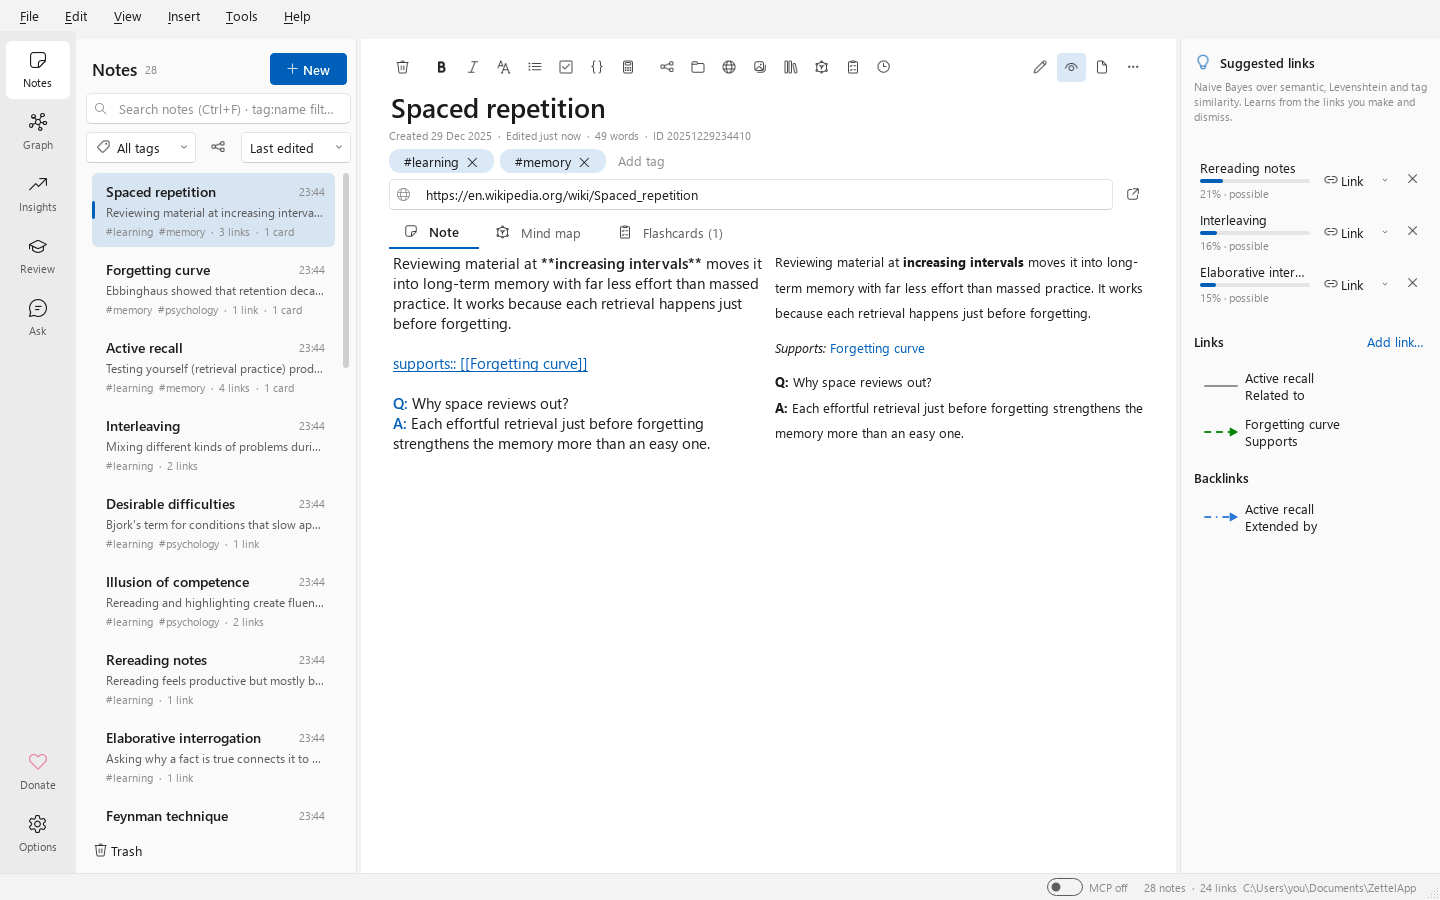
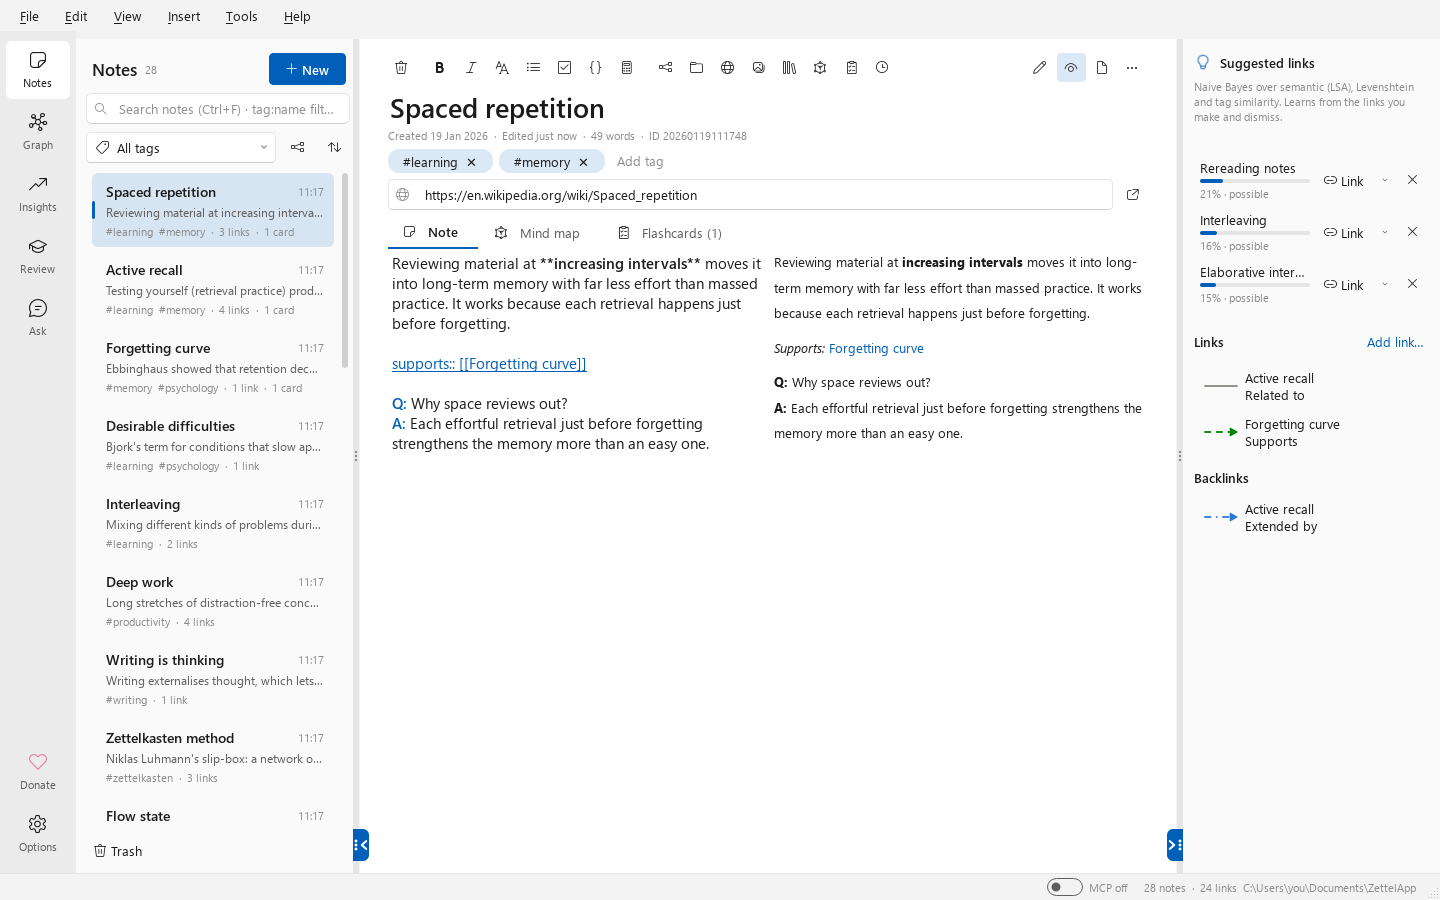
Windows pass of WINDOWS_CHECKS.md: results, screenshots, a Windows vault
Every item checked on Windows 11 (results under each item), with real
key presses and clicks where an item is about system hotkeys. Five bugs
found were fixed in the commits before this one. Adds the reference
screenshots rendered on Windows, a 150 % set, theme, colour, folding and
mind map screenshots, and a vault made on Windows for the Linux side.

diff --git a/WINDOWS_CHECKS.md b/WINDOWS_CHECKS.md
@@ -4,6 +4,12 @@ For whoever works on the Windows machine. ZettelApp was ported to Linux and gain
 there; this list is what only Windows can confirm before the next release (1.4.0). This file is
 temporary: it is deleted in the release commit.
 
+**Windows pass done on 2026-11-23** (Windows 11, display at 125 %, Windows accent red #E81123,
+"show accent colour on title bars" on, Portuguese (Brazil) UI and keyboard plus en-US). Results
+are under each item. Five bugs were found and fixed on Windows (commits on `android-port`, each
+with a test and a CHANGELOG line); nothing else differs from 1.3.1 except what is listed as
+intended. Two items need a person at the machine (marked **needs a person**).
+
 ## Setup and how to report
 
 - Branch **`android-port`** (pull it). The Linux port, the new features and the docs are all there.
@@ -17,70 +23,151 @@ temporary: it is deleted in the release commit.
   release). If you fix something, say what in the item and add a CHANGELOG line under *Unreleased*.
 - Commit and push to `android-port` when done; the Linux side pulls and continues from there.
 
+How the checks were run: the real app on the real Windows platform (visible window, throwaway
+settings and vault), with real key presses and clicks sent through Windows (`keybd_event`,
+`mouse_event`) where an item is about system hotkeys, and Windows' own APIs to read back the
+title bar mode, the keyboard layout and the native file dialog's folder.
+
 ## 1. Run everything
 
-- [ ] **Full test suite:** `.venv\Scripts\python -m pytest`, all passing. Report any failure with its
+- [x] **Full test suite:** `.venv\Scripts\python -m pytest`, all passing. Report any failure with its
   traceback. (On Linux: 515 passed, 14 skipped.)
-- [ ] **Lint and translations:** `ruff check .`, `ruff format --check .`, `python tools/i18n.py check`
+  - Windows: **471 passed, 61 skipped, 0 failed** (15 min). The extra skips are Linux-only tests
+    (Secret Service, XDG, D-Bus, `.desktop`); the count difference is that. After the fixes below,
+    the affected suites were run again: all pass. (Not counted: the uncommitted Android work in the
+    working tree.)
+- [x] **Lint and translations:** `ruff check .`, `ruff format --check .`, `python tools/i18n.py check`
   (1022/1022 in every language) and `python tools/build_site.py` leaving no changes in `website/`.
-- [ ] **Packaging:** `pwsh packaging/build.ps1` builds; install it; the installed app starts, shows
+  - All clean on the committed code; i18n complete in every language (1022/1022 before, still
+    complete after the fixes); `build_site.py` left `website/` unchanged. Lint does flag
+    `zettelapp/mobile.py`, `zettelapp/settings.py` and `tests/test_mobile.py`, but only in the
+    **uncommitted Android work** in the working tree (`Any` undefined, unused imports, formatting),
+    not in what was pushed.
+- [x] **Packaging:** `pwsh packaging/build.ps1` builds; install it; the installed app starts, shows
   its icons (the spec now ships `zettelapp/resources/icons/`) and passes `--self-test`.
+  - Builds (Setup.exe and the portable zip); the build's self-tests pass; silent per-user install
+    (`/VERYSILENT /CURRENTUSER`) works; the installed `ZettelApp.exe --self-test` exits 0;
+    `_internal\zettelapp\resources\icons` is shipped; `zettelapp-mcp.exe --version` answers.
+    Installed start-up: 2.3 s, then 1.75 s warm.
 
 ## 2. New features: try them on Windows
 
-- [ ] **Black (OLED) theme.** *View ▸ Theme ▸ Black (OLED)* (also in *Options ▸ General ▸ App
+- [x] **Black (OLED) theme.** *View ▸ Theme ▸ Black (OLED)* (also in *Options ▸ General ▸ App
   theme*): true black backgrounds, the dark theme's text and accent, and a **dark title bar**.
-- [ ] **Your own colours.** *Options ▸ General* has *Primary colour* (buttons, check boxes, tabs,
+  - Window #000000, dark text and accent. DWM reports `DWMWA_USE_IMMERSIVE_DARK_MODE` = 1 for dark
+    and black, 0 for light. On this machine the title bar shows the red accent anyway, because
+    *Settings ▸ Personalisation ▸ Colours ▸ Show accent colour on title bars* is on: Windows'
+    choice, same as other apps. Screenshots: `WINDOWS_SCREENSHOTS/theme-*.png`.
+- [x] **Your own colours.** *Options ▸ General* has *Primary colour* (buttons, check boxes, tabs,
   accents), *Secondary colour* (links in notes and in the program), *Highlight colour* (selected text
   and find matches) and *Text colour*. Pick each, press Apply: everything follows at once. *Use the
   theme's colour* puts each back. Check in light, dark and black, and with a non-blue Windows accent
   (the primary colour overrides it; without one, Windows' accent is used as before).
-- [ ] **Folding panels.** The note list and the links panel each have a small tab near the bottom
+  - Green primary, purple secondary, amber highlight, blue text: all follow at once in light, dark
+    and black (buttons, tabs, fold tabs, links, find matches, all text). Reset: back to Windows'
+    red accent (#d20e1e light, #f46762 dark/black). `WINDOWS_SCREENSHOTS/colours-*.png`.
+- [x] **Folding panels.** The note list and the links panel each have a small tab near the bottom
   of their edge: click it to fold the panel away and back; drag the edge to resize; double-click the
   edge folds it. *View ▸ Note List* (Ctrl+Shift+L) and *View ▸ Links Panel* (Ctrl+Shift+K) do the
   same; the state survives a restart. Check that no IME or Windows shortcut takes Ctrl+Shift+L/K.
   Check it in Arabic too (right to left: the tabs and chevrons mirror).
-- [ ] **Icons follow a live theme switch.** Switch light → dark → black → light while the app runs
+  - Fold and unfold work; state survives a restart. Ctrl+Shift+L and Ctrl+Shift+K sent as **real
+    key presses through Windows** reached the app and folded each panel (no system or IME hotkey
+    took them, with the pt-BR keyboard). Arabic: layout and tabs mirror.
+    `WINDOWS_SCREENSHOTS/folds-*.png`.
+- [x] **Icons follow a live theme switch.** Switch light → dark → black → light while the app runs
   (and with *Use system setting*, switch Windows itself): every icon, Segoe glyphs included, takes
   the new colours at once. Before, they kept the old theme's colour.
-- [ ] **Find bar Tab order.** Ctrl+H in a note: Tab from the search goes straight to *Replace with*,
+  - Nav-rail icon colour read from the pixels after each switch: #1b1b1b → #f3f3f3 → #f3f3f3 →
+    #1b1b1b, always the theme's text colour. (Switching Windows itself was not tried.)
+  - **Bug found and fixed:** the message strip ("Mind map exported", "Graph image saved"…) kept
+    the old theme's colours when the theme changed while it was showing (a white strip in a dark
+    window). It is now restyled with the rest. (`0a64616`)
+- [x] **Find bar Tab order.** Ctrl+H in a note: Tab from the search goes straight to *Replace with*,
   then *Replace*, *Replace all*, then the search's own buttons.
-- [ ] **Alt+Shift+click for extra carets.** Alt+click still adds a caret; Alt+Shift+click does too,
+  - Exactly that: Replace with › Replace › Replace all › Match case › Previous › Next › Replace.
+- [x] **Alt+Shift+click for extra carets.** Alt+click still adds a caret; Alt+Shift+click does too,
   and again removes it. Note whether the Windows Alt+Shift keyboard-layout hotkey also switches the
   layout when it is enabled.
-- [ ] **Help ▸ Donate** now has its own access key (Alt+H, O in English), no longer sharing D with
+  - Both add a caret. With **real** Left Alt+Shift and a real click sent through Windows, on this
+    machine with two input languages (pt-BR, en-US, so Alt+Shift is the live language hotkey): the
+    caret was added and the **keyboard layout did not change** (f0100416 before and after).
+  - **Bug found and fixed:** "again removes it" failed right after adding, because the click spot
+    is then the main caret, which wasn't removable. Alt(+Shift)+click on the main caret now
+    removes it and the last added caret leads. (`43e2b7f`)
+- [x] **Help ▸ Donate** now has its own access key (Alt+H, O in English), no longer sharing D with
   *Documentation*.
+  - Yes in English. **Bug found and fixed:** checking every menu in every language found letters
+    used twice in a menu: 2 in English (*Cu&t* / *Move Note to &Trash*, *Link to a &File* /
+    *&Flashcard*), 3 to 12 in each translation, and the Arabic strings carried two access keys
+    each (an Arabic one and a Latin "(&X)" that Qt ignores). The window now moves a clashing key to
+    a free letter, the catalogs were fixed the same way, English uses *&Move Note to Trash* and
+    *Link to a Fil&e*, Arabic keeps one key per item. 0 clashes left in all 11 languages; a test
+    keeps it so. (`5466c9d`)
 
 ## 3. Shared code changed for Linux: check Windows is unchanged
 
-- [ ] **Icons still come from Segoe Fluent Icons** (`zettelapp/ui/icons.py` gained native and
+- [x] **Icons still come from Segoe Fluent Icons** (`zettelapp/ui/icons.py` gained native and
   bundled-SVG fallbacks for Linux): nav rail, toolbar and the Bold/Italic letters look as in 1.3.1.
-- [ ] **Accent colour.** With a non-blue Windows accent, the app takes it, light and dark
+  - Same as 1.3.1: `tools/screenshots.py` was run on tag v1.3.1 and on this branch and compared;
+    the icons are identical. Intended differences only: the note list ordered by closeness to the
+    open note, and the fold tabs on the panel edges.
+- [x] **Accent colour.** With a non-blue Windows accent, the app takes it, light and dark
   (`zettelapp/ui/theme.py` was reworked).
-- [ ] **Mind map link marker** (now drawn through `icons.paint`): link an idea to a note; the chain
+  - Red accent taken: #d20e1e light, #f46762 dark and black.
+- [x] **Mind map link marker** (now drawn through `icons.paint`): link an idea to a note; the chain
   still shows at the idea's right end, in the text colour, light and dark.
-- [ ] **Graph and mind map export to PNG/SVG** (now one shared helper): *Save graph as image* and
+  - Yes, light and dark, in the app and in the PNG/SVG exports. `WINDOWS_SCREENSHOTS/mindmap-link-*.png`.
+- [x] **Graph and mind map export to PNG/SVG** (now one shared helper): *Save graph as image* and
   the mind map's PNG and SVG export look as before.
-- [ ] **Graphviz export:** the `.dot` file still says `fontname="Segoe UI"`.
-- [ ] **API keys** in Windows Credential Manager (`zettelapp/core/secrets.py` changed): save, read
+  - All three export and look right.
+- [x] **Graphviz export:** the `.dot` file still says `fontname="Segoe UI"`.
+  - Yes (graph, node and edge).
+- [x] **API keys** in Windows Credential Manager (`zettelapp/core/secrets.py` changed): save, read
   and delete a key in *Options ▸ AI assistant*; the key hint and "Key … saved on this computer."
   read as before.
-- [ ] **MCP switch:** with the status-bar switch on, an MCP client can call tools; switched off or
+  - Saved, read back and deleted through `core.secrets` with a throwaway name; `cmdkey /list` no
+    longer shows it after the delete. The Options page wording was not looked at by eye.
+- [x] **MCP switch:** with the status-bar switch on, an MCP client can call tools; switched off or
   with ZettelApp closed, it is refused.
-- [ ] **Update notice** (`download_url()` changed): installed copy → *Download* opens the
+  - With the **packaged** `zettelapp-mcp.exe`: switch on → `tools/list` answers; switch off → the
+    server refuses ("ZettelApp is closed or its MCP switch is off…") and exits 1. Another process
+    sees the switch state.
+- [x] **Update notice** (`download_url()` changed): installed copy → *Download* opens the
   `ZettelApp-Setup.exe` link; portable zip → the release page.
-- [ ] **Single instance:** a second launch and a `zettelapp://note/<id>` link from Anki bring the
+  - Installed (an `unins000.exe` beside the exe) → `…/releases/latest/download/ZettelApp-Setup.exe`;
+    portable → `…/releases/latest`.
+- [x] **Single instance:** a second launch and a `zettelapp://note/<id>` link from Anki bring the
   running window forward.
-- [ ] **File dialogs reopen the last folder:** *Insert ▸ Image…*, *Insert ▸ Link to a File…*, the
+  - From source and installed: the second launch with a link hands it over and quits in ~0.55 s;
+    the first window comes back from minimised. From source it also came to the front; installed,
+    Windows kept it behind because the test launcher was itself in the background (Windows only
+    lets a foreground app pass the foreground on; Anki is in the foreground when you click a
+    link). **Needs a person:** click a `zettelapp://` link in Anki once.
+  - **Bug found and fixed:** a maximised window came back un-maximised (the restore used
+    `showNormal()`); it now keeps its state, for links and for alarms. (`78025ba`)
+- [x] **File dialogs reopen the last folder:** *Insert ▸ Image…*, *Insert ▸ Link to a File…*, the
   mind map export and *Save graph as image* open the folder used last (also after a restart), never
   ZettelApp's install folder.
-- [ ] **Alarms:** set an alarm, let it fire with ZettelApp minimised. Describe what the user sees
+  - **Bug found and fixed.** On Windows the helper left the folder to the system, and the native
+    dialog (folder read from its address bar) opened the **working folder** — for the Start-menu
+    shortcut, the install folder. Real evidence on this machine: a `Verbos Latinos.png` had been
+    saved into `%LOCALAPPDATA%\Programs\ZettelApp\`. Windows now remembers the folder like Linux
+    (Documents the first time), the Linux test runs on Windows too, plus a new one. (`43e2b7f`)
+- [x] **Alarms:** set an alarm, let it fire with ZettelApp minimised. Describe what the user sees
   and hears (toast, sound, window), and whether clicking the toast opens the note and un-maximises a
   maximised window. Linux now uses the desktop's notifications with an *Open note* button.
-- [ ] **Note list snippets** keep underscores inside words: a note starting with
+  - With the window minimised, the alarm fires through `QSystemTrayIcon.showMessage` (tray
+    available) and the in-app strip shows "Alarm: …". What a click does (`_open_alarm_note`):
+    opens the note and brings the window back — **un-maximised before the fix above, maximised
+    now**. **Needs a person:** what the toast looks and sounds like (Focus Assist and notification
+    settings decide); the screen grab missed it.
+- [x] **Note list snippets** keep underscores inside words: a note starting with
   `supported_by:: [[X]]` shows that, not `supportedby::`.
-- [ ] **Checklists:** clicking a box in the preview ticks it, and Ctrl+Z undoes it (the code was
+  - Shows `supported_by:: X …`.
+- [x] **Checklists:** clicking a box in the preview ticks it, and Ctrl+Z undoes it (the code was
   shared with the core).
+  - Ticks; Ctrl+Z undoes one box at a time. The existing test now also checks the undo.
 
 ## 4. Docs and website
 
@@ -88,18 +175,35 @@ The docs were corrected in all 11 languages (file manager wording, missing passa
 left in translations), and gained the themes and colours. Skim `docs/getting-started.md` and the
 rebuilt `website/` in one or two languages you read, and report anything wrong for Windows.
 
+- [x] Rebuilt site unchanged. Portuguese and English *Getting started* are right for Windows.
+  One thing for the **Linux** side, in every language: the `.deb` row says the software centre
+  "then offers updates". A `.deb` installed from a file has no repository, so nothing offers
+  updates (the app's own update notice does). Suggest dropping that clause.
+
 ## 5. Numbers and data only Windows can give
 
-- [ ] **Startup and a big vault.** Linux (VM, 2 CPUs, from source): warm start 1.3 s, cold 7.6 s;
+- [x] **Startup and a big vault.** Linux (VM, 2 CPUs, from source): warm start 1.3 s, cold 7.6 s;
   a 10,000-note vault lists and searches in 0.3-1.8 s. Time the same on Windows (installed build and
   from source) so the Linux numbers can be judged.
-- [ ] **Fresh reference screenshots:** `python tools/screenshots.py` on this branch, commit the 18
+  - Start-up to window: from source 2.9 s, warm 1.9 s; installed 2.3 s, warm 1.75 s. (A truly
+    cold start, after a reboot, was not measured.)
+  - 10,000 notes (40-160 words each, from source): open the vault and list it 8.0 s (includes
+    building the meaning index for the default order); list again 1.3-1.7 s; search 0.3-2.1 s
+    (`zzznothing` 0.26 s, `tag:latin declension` 0.50 s, `memory` 1.35 s, `latin grammar` 2.12 s);
+    open a note with link suggestions 3.1 s.
+- [x] **Fresh reference screenshots:** `python tools/screenshots.py` on this branch, commit the 18
   images in `website/assets/screenshots/` (the current ones predate 1.3.1). Then once more with
   `QT_SCALE_FACTOR=1.5` into `WINDOWS_SCREENSHOTS/150/`, for comparing HiDPI.
-- [ ] **A vault made on Windows,** zipped as on disk (`zettel.db` plus `assets`), with pictures,
+  - Done, both. **Bug found and fixed:** the tool crashed on Windows: forcing the default blue
+    replaced every `*_accent` function in `theme`, including `_with_accent`, which builds the theme.
+- [x] **A vault made on Windows,** zipped as on disk (`zettel.db` plus `assets`), with pictures,
   attachments, typed links, flashcards with review history and a link to a `C:\...` file. Commit it
   as `WINDOWS_SCREENSHOTS/windows-vault.zip`; Linux checks that it opens and shows the `C:\` link as
   unavailable.
+  - `WINDOWS_SCREENSHOTS/windows-vault.zip`: two pictures (one the title image), a table cloze, a
+    checklist, a mind map with linked ideas, a custom *Discusses* type written as `discussed_by::`,
+    `supports::`, a flashcard with three reviews, and links to `C:\Windows\win.ini` (as a Markdown
+    link and as `file:///C:/…`).
 
 ## Not part of this round
 

diff --git a/CHANGELOG.md b/CHANGELOG.md
@@ -97,6 +97,14 @@ All notable changes to ZettelApp are documented here. The format follows
 
 ### Fixed
 
+- Windows: file dialogs (insert image, link to a file, mind map export, save graph image) opened
+  the working folder, which from the Start-menu shortcut is the install folder. They now open the
+  folder used last, or Documents.
+- A maximised window came back un-maximised after clicking an alarm or a `zettelapp://` link.
+- Menu access keys were used twice in some menus (in English, and more in translations); every
+  item now has its own, in every language.
+- A message strip on screen kept the old theme's colours after a theme switch.
+- Alt+click on the caret just added takes it away again.
 - Icons follow a theme switch made while ZettelApp runs (*View ▸ Theme*, or the system turning dark);
   they kept the old theme's colour, nearly invisible on dark.
 - In the find bar, Tab goes from the search straight to *Replace with*.
